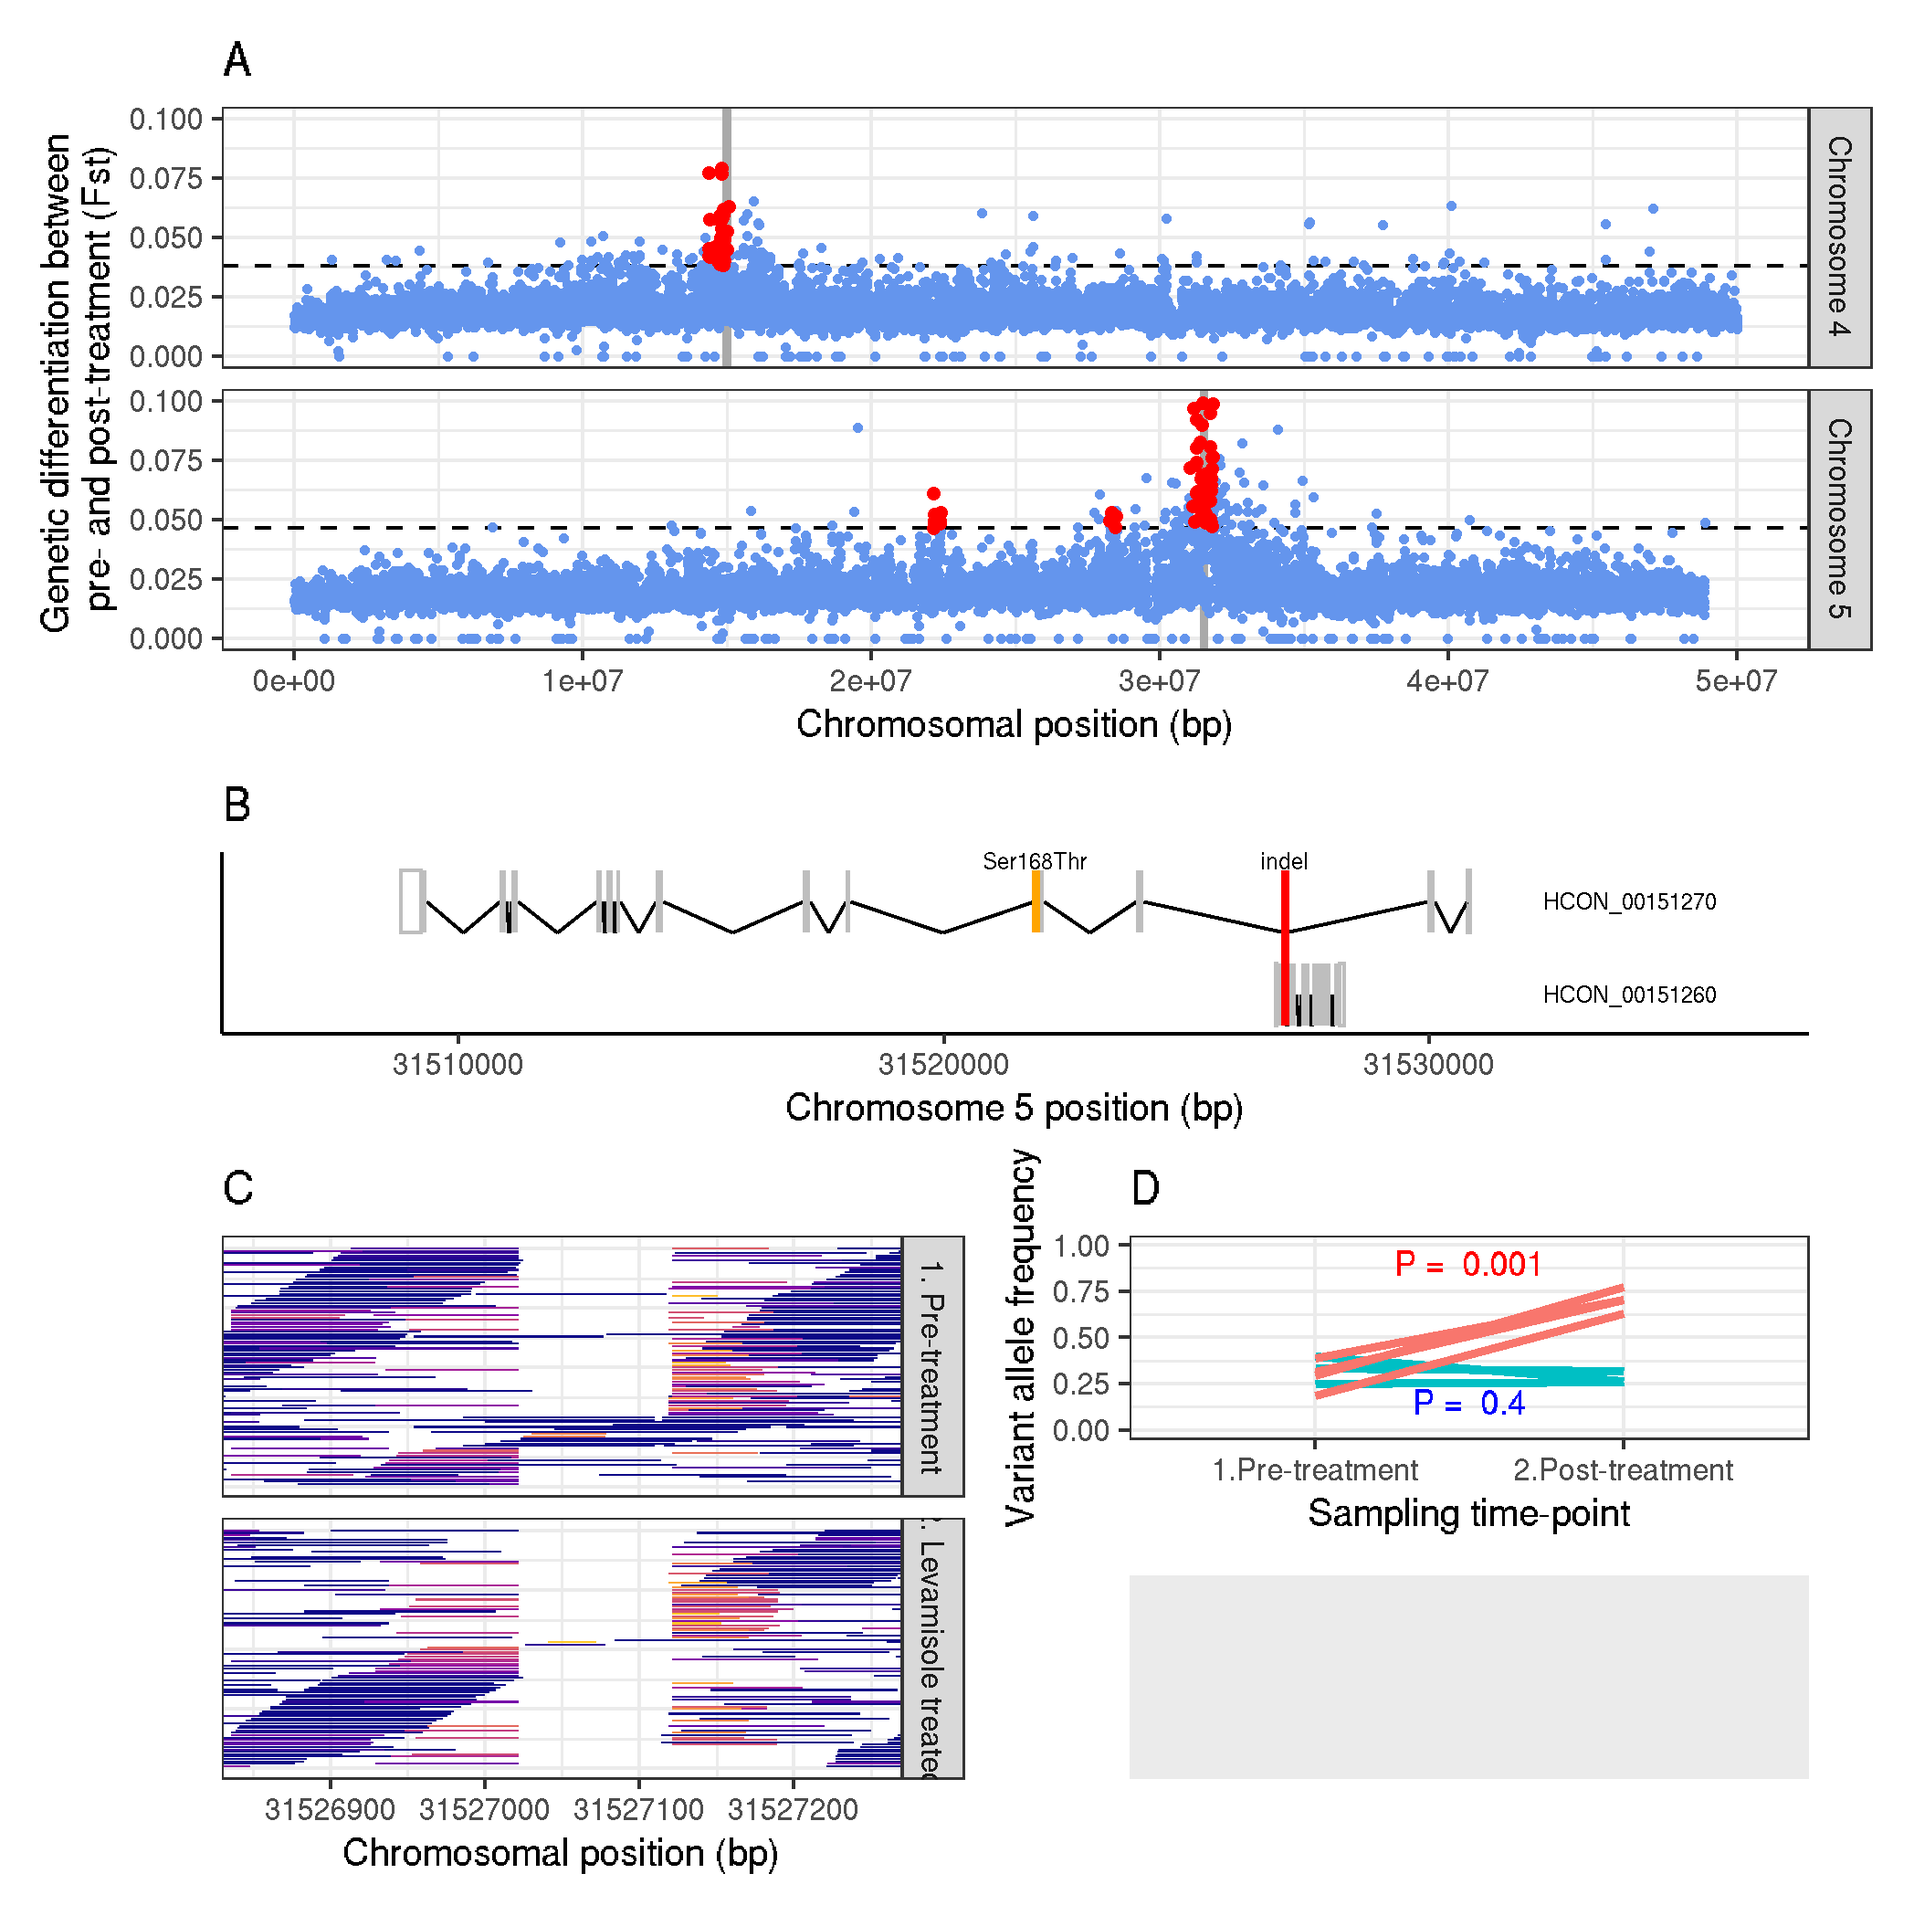
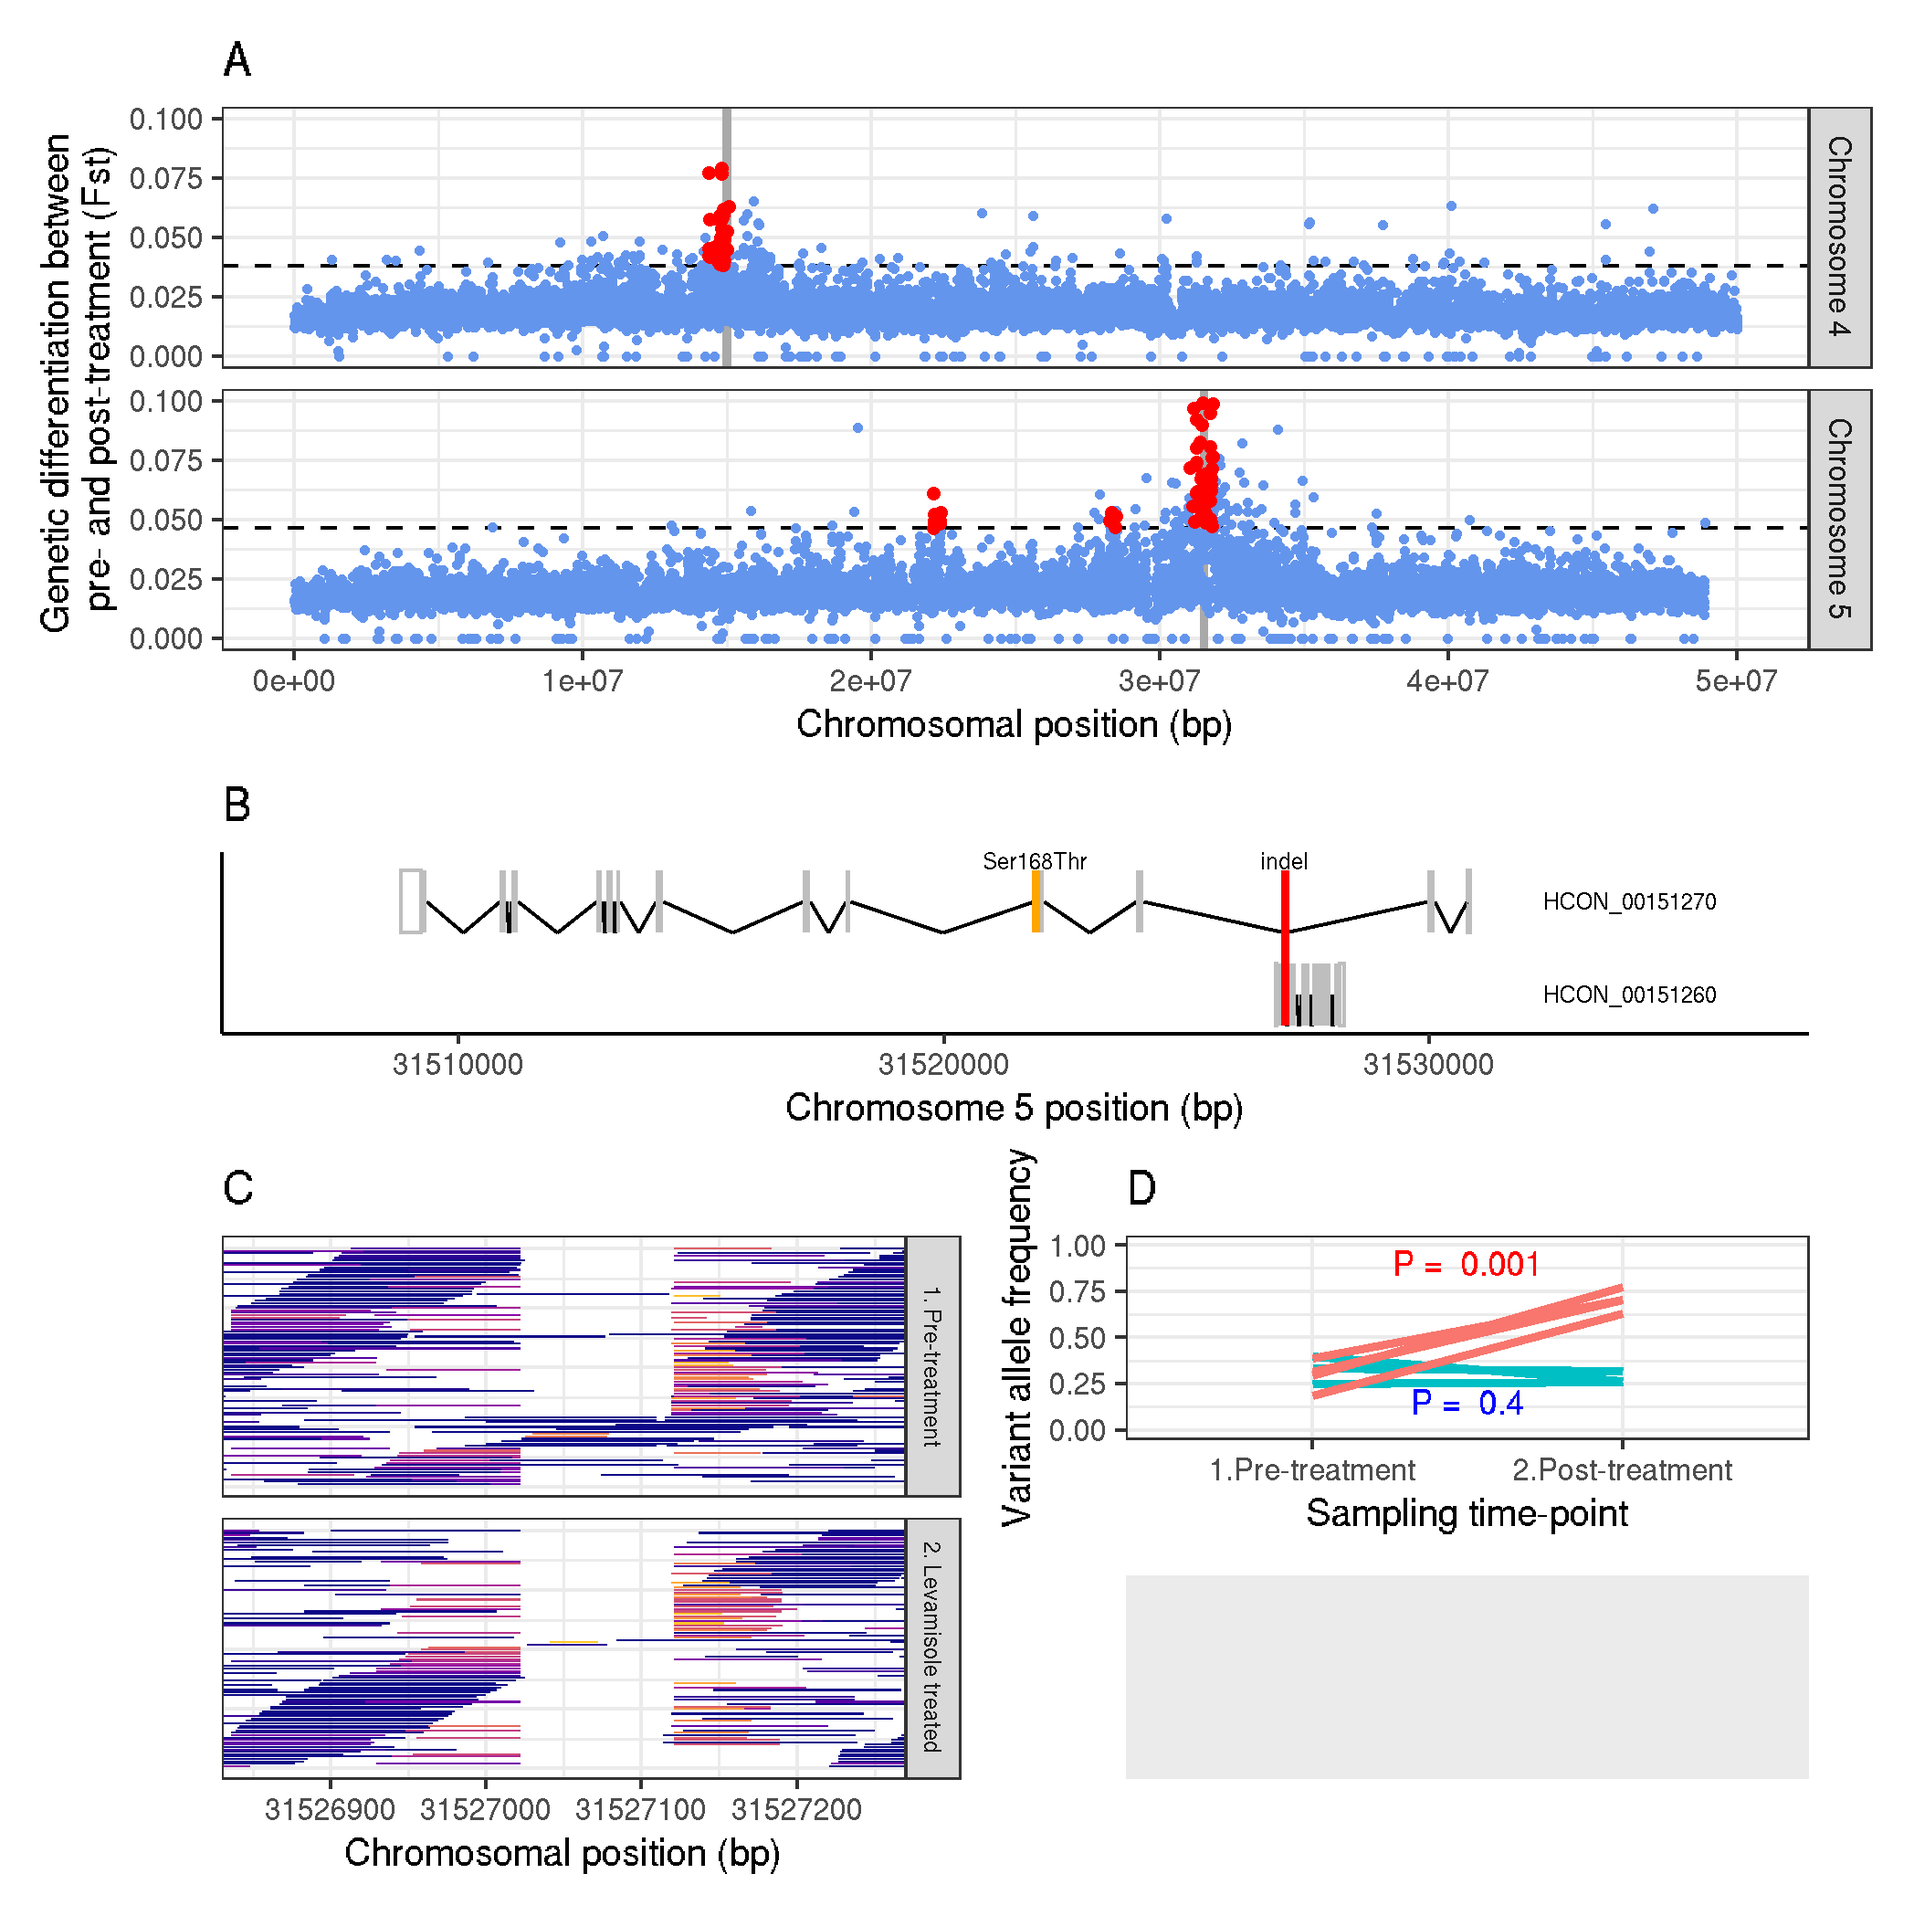
update

diff --git a/hcontortus_xqtl.workbook.figure4.md b/hcontortus_xqtl.workbook.figure4.md
@@ -69,7 +69,7 @@ plot_a <- ggplot(data)+
    theme_bw()+theme(legend.position = "none", text = element_text(size = 10))+
    facet_grid(CHR~.)
 
-plot_a
+#plot_a
 ```
 
 ## Figure 4 B <a name = "figure4b"></a>
@@ -188,7 +188,7 @@ plot_b <- ggplot()+
     axis.ticks.y = element_blank(),
     text = element_text(size = 10))
 
-plot_b
+#plot_b
 ```
 
 ## Figure 4 C <a name = "figure4c"></a>
@@ -260,14 +260,14 @@ plot_c <- ggplot(data) +
    #xlim(31526800, 31527250)+
    coord_cartesian(xlim = c(31526850, 31527250)) +
    labs(title = "C", x = "Chromosomal position (bp)") +
-   theme_bw() + theme(legend.position = "none", text = element_text(size = 10),
+   theme_bw() + theme(legend.position = "none", text = element_text(size = 10), strip.text.y = element_text(size = 6),
    axis.title.y = element_blank(),
    axis.text.y = element_blank(),
    axis.ticks.y = element_blank()) +
    facet_grid(treatment ~ .) +
    scale_fill_viridis(option = "plasma")
 
-plot_c
+#plot_c
 
 ```
 
@@ -359,7 +359,7 @@ data <- data %>%
 
 
 # make the plot
-plot <- ggplot(data) +
+plot_d <- ggplot(data) +
    geom_segment(aes(x = "1.Pre-treatment", xend = "2.Post-treatment", y = PRE_TREATMENT, yend = POST_TREATMENT, col = factor(TREATMENT), group = POS), size = 1) +
    labs(title = "D", x = "Sampling time-point", y = "Variant allele frequency", col = "Replicate") +
    ylim(0, 1) +
@@ -403,11 +403,11 @@ p.data <- dplyr::bind_rows(control_stat.test, lev_stat.test)
 
 
 # make new plot with p values annotated on it
-plot_d <- plot +
+plot_d <- plot_d +
    geom_text(data = p.data, aes(x = 1.5, y = 0.90, label = paste('P = ', p.adj[2])), size = 3, col = "red")+
    geom_text(data = p.data, aes(x = 1.5, y = 0.15, label = paste('P = ', p.adj[1])), size = 3, col = "blue")
 
-plot_d
+#plot_d
 ```
 
 ```R
@@ -416,7 +416,8 @@ plot_d
 library(patchwork)
 
 # temporary blank plot
-plot_e <- ggplot()+geom_blank()
+plot_e <- ggplot() + geom_blank()
+
 
 plot_a + plot_b + (plot_c | (plot_d / plot_e)) + plot_layout(ncol = 1, height = c(3, 1, 3))
 
